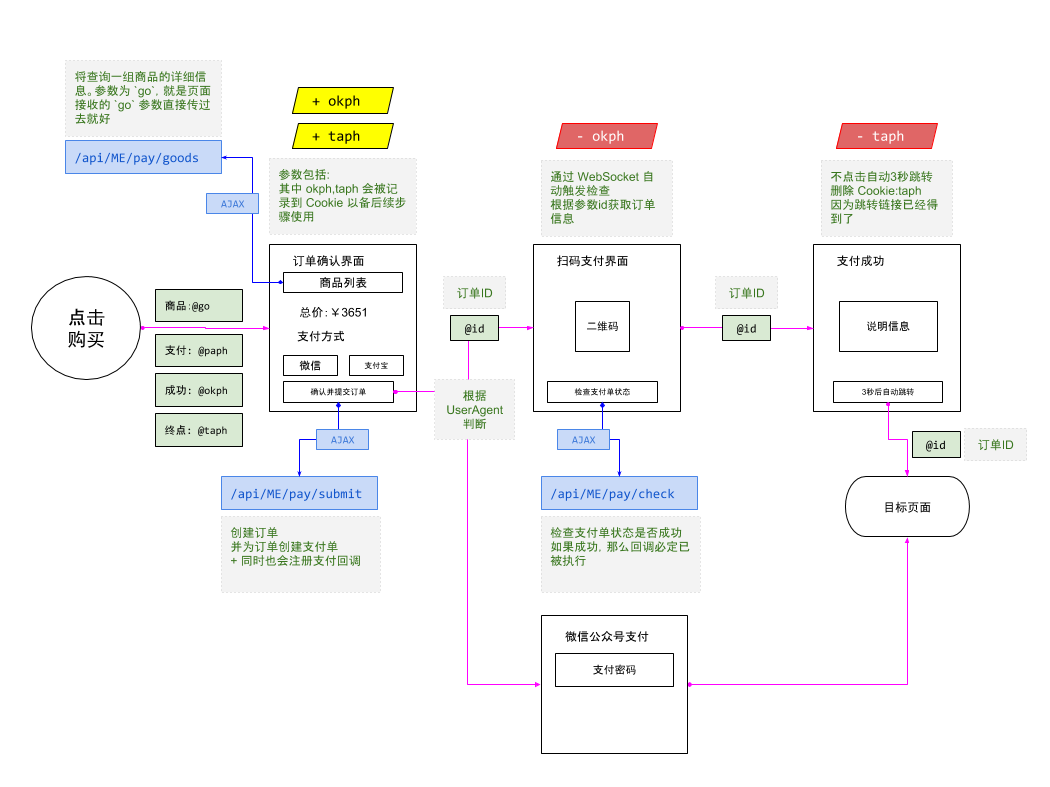
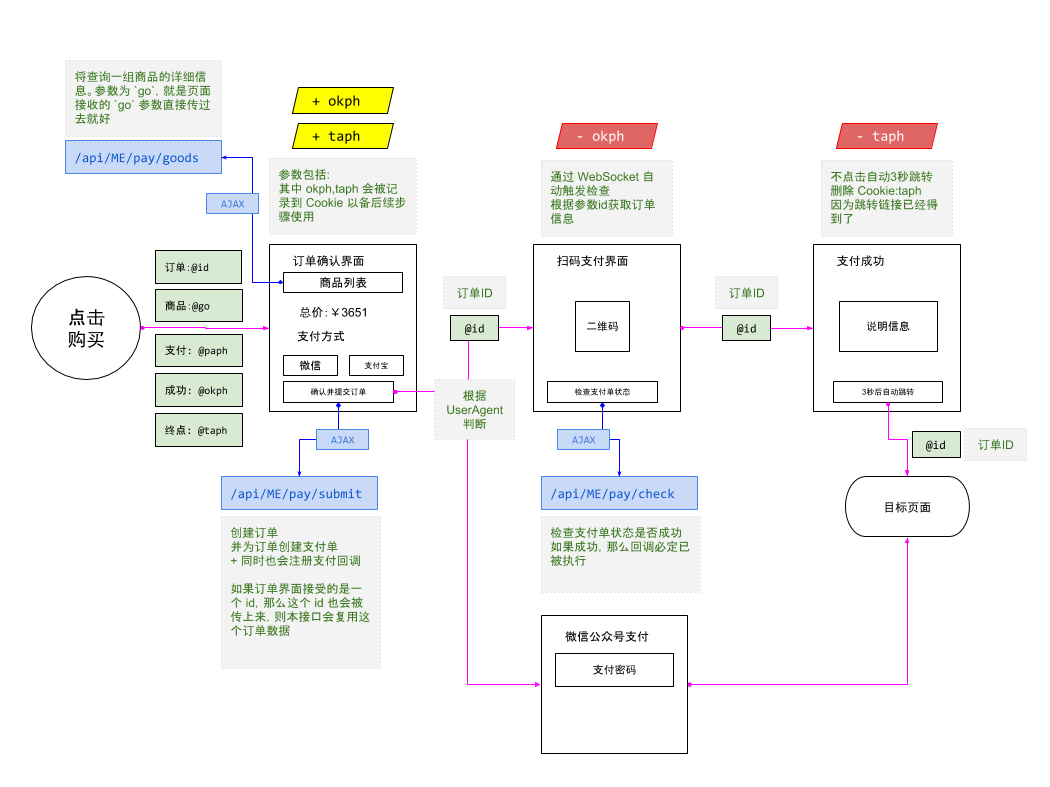
for #417 提供了商品和订单数据的定义

Changed region(s): [[0.2133, 0.7319, 0.3657, 0.8234], [0.1219, 0.305, 0.2438, 0.3659]]

diff --git a/ROOT/app/wn.hmaker2/support/ui_site_conf.js b/ROOT/app/wn.hmaker2/support/ui_site_conf.js
@@ -116,6 +116,26 @@ return ZUI.def("app.wn.hmaker_ui_new_site", {
                     },
                     emptyItem : {}
                 }
+             }, {
+                key   : "hm_order_set",
+                title : "i18n:hmaker.site.order_set",
+                icon  : '<i class="zmdi zmdi-assignment"></i>',
+                type  : "string",
+                uiWidth : "auto",
+                editAs : "droplist",
+                uiConf : {
+                    items : "obj ~/thing -match 'tp:\"thing_set\"' -sort 'th_nm:1' -l",
+                    icon  : function(o){
+                        return o.icon || '<i class="fa fa-cube"></i>';
+                    },
+                    text  : function(o){
+                        return o.nm;
+                    },
+                    value : function(o){
+                        return o.id;
+                    },
+                    emptyItem : {}
+                }
             }, {
                 key   : "hm_login_entry",
                 title : "i18n:hmaker.site.login_entry",

diff --git a/ROOT/app/wn.hmaker2/i18n/zh-cn.js b/ROOT/app/wn.hmaker2/i18n/zh-cn.js
@@ -52,6 +52,7 @@ define({
             "skin" : "站点皮肤",
             "account_set"  : "用户库",
             "role_set"     : "角色库",
+            "order_set"    : "订单库",
             "hm_wxmp"      : "关联公众号",
             "www_entry"    : "默认入口页",
             "www_entry_tip": "访问站点默认打开的页面，默认为 \"index\"",

diff --git a/ROOT/app/wn.hmaker2/hmaker.js b/ROOT/app/wn.hmaker2/hmaker.js
@@ -335,7 +335,7 @@ return ZUI.def("app.wn.hmaker2", {
         POP.openUIPanel({
             title  : 'i18n:hmaker.site.conf',
             width  : 640,
-            height : 640,
+            height : 700,
             escape : false,
             closer : false,
             setup : {
